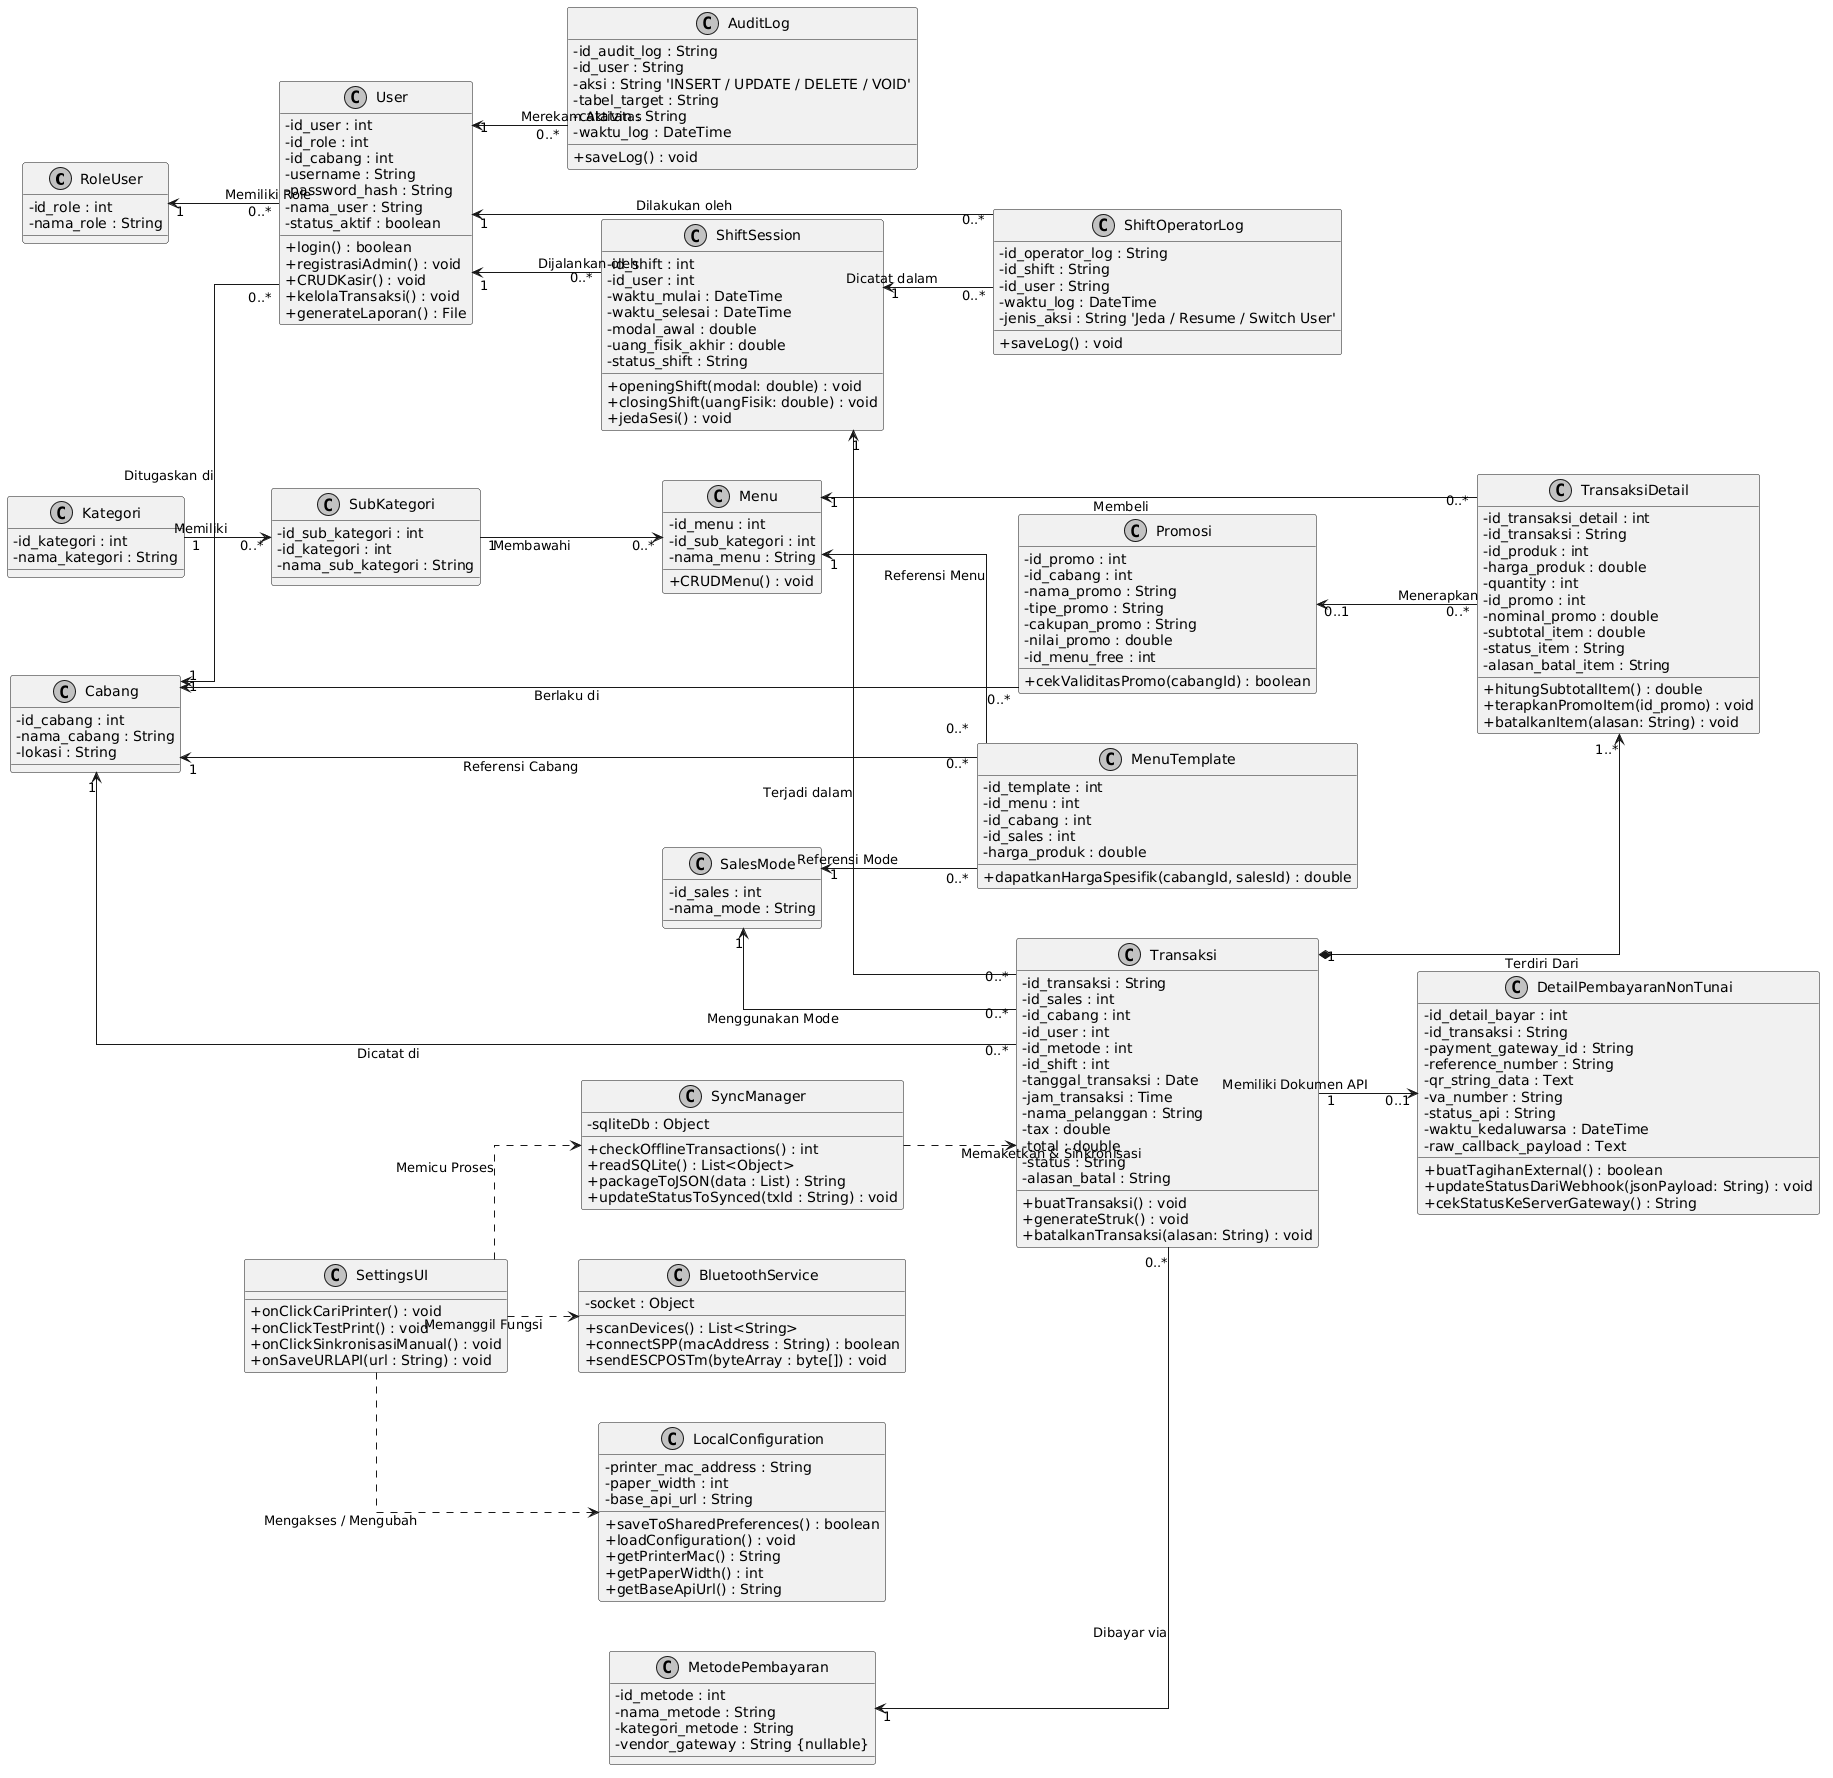
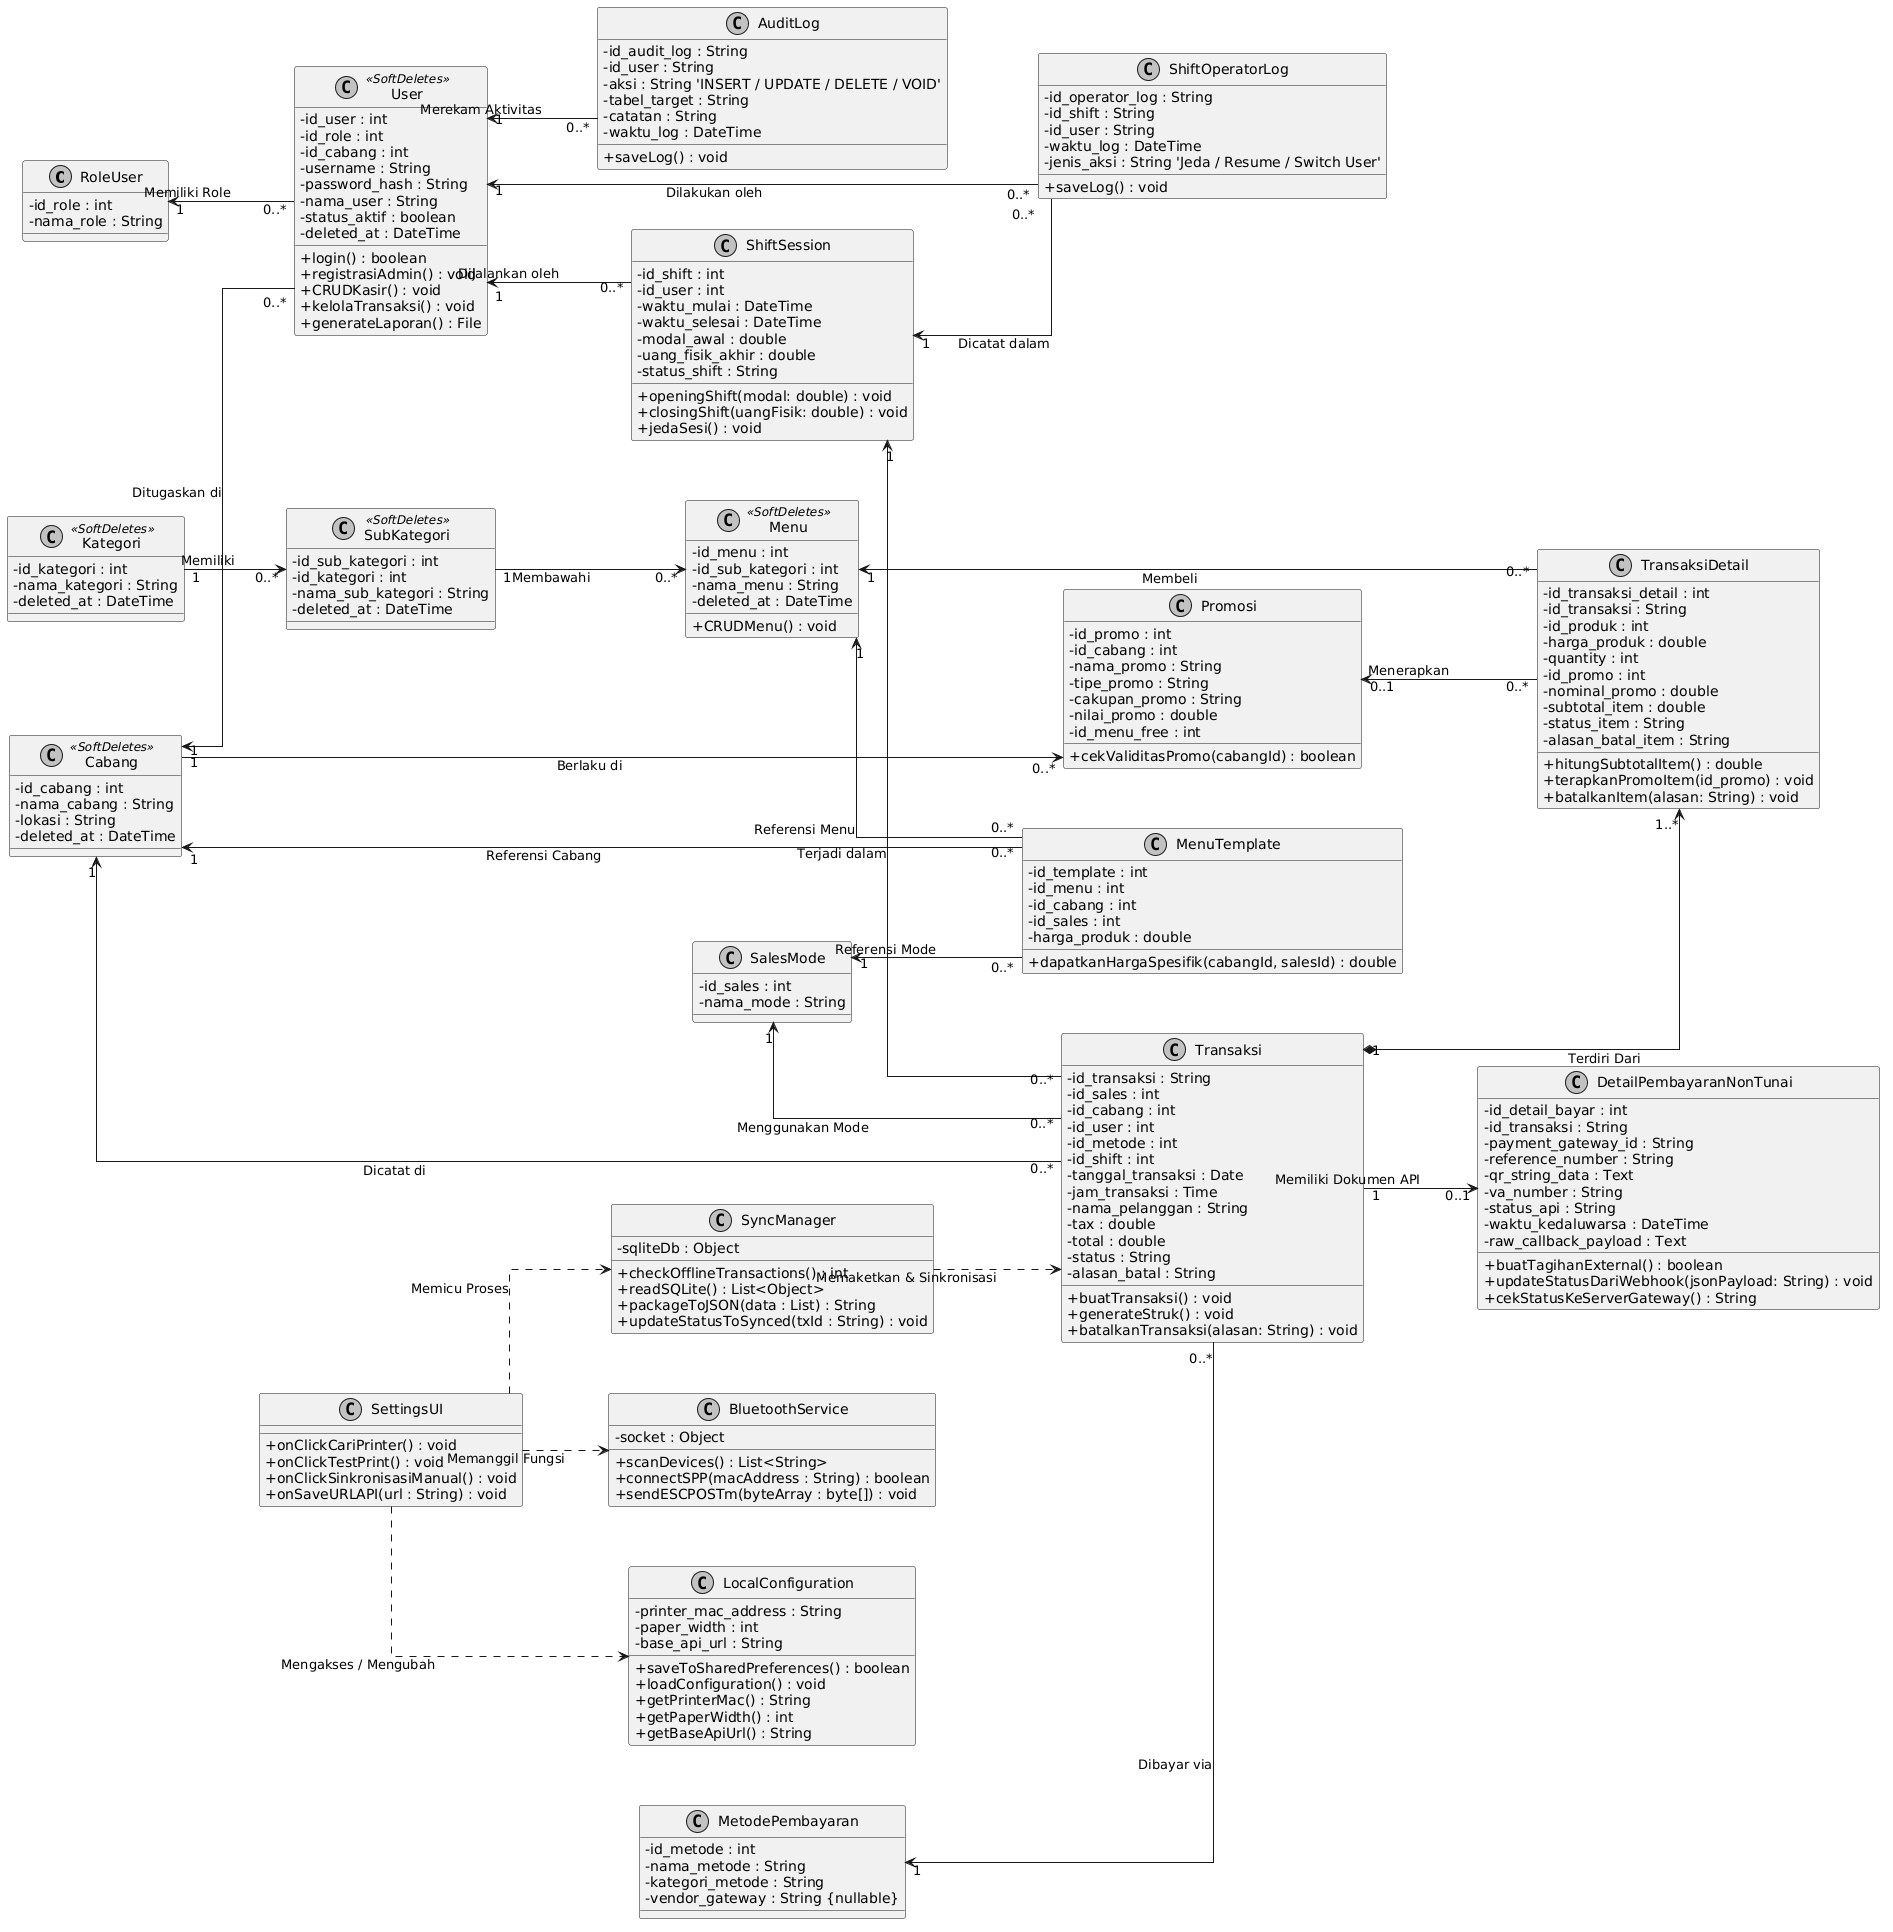
feat(api): -Pengujian API via Postman: verifikasi alur Auth (login/logout/me), CRUD master data, proteksi role 403 Forbidden, validasi 422, dan soft deletes berjalan sukses tanpa error. -Memperbarui UserController agar secara otomatis mengosongkan password_hash (set NULL) untuk akun role Kasir.

diff --git a/pos-event-backend/app/Http/Controllers/Api/V1/UserController.php b/pos-event-backend/app/Http/Controllers/Api/V1/UserController.php
@@ -6,6 +6,7 @@ use App\Http\Controllers\Controller;
 use App\Http\Requests\V1\StoreUserRequest;
 use App\Http\Requests\V1\UpdateUserRequest;
 use App\Http\Resources\UserResource;
+use App\Models\RoleUser;
 use App\Models\UserModel;
 use Illuminate\Http\JsonResponse;
 use Illuminate\Http\Resources\Json\AnonymousResourceCollection;
@@ -51,8 +52,11 @@ class UserController extends Controller
     {
         $validated = $request->validated();
 
-        // Hash password hanya jika dikirim dan tidak null
-        if (! empty($validated['password_hash'])) {
+        // Kasir login cepat (tanpa password): jika role Kasir, paksa password_hash menjadi NULL
+        $role = RoleUser::find($validated['id_role']);
+        if ($role && $role->nama_role === 'Kasir') {
+            $validated['password_hash'] = null;
+        } elseif (! empty($validated['password_hash'])) {
             $validated['password_hash'] = Hash::make($validated['password_hash']);
         }
 
@@ -100,11 +104,15 @@ class UserController extends Controller
     {
         $validated = $request->validated();
 
-        // Perbarui password hanya jika field dikirim dan memiliki nilai baru
-        if (array_key_exists('password_hash', $validated)) {
+        $targetRoleId = $validated['id_role'] ?? $user->id_role;
+        $role = RoleUser::find($targetRoleId);
+
+        if ($role && $role->nama_role === 'Kasir') {
+            $validated['password_hash'] = null;
+        } elseif (array_key_exists('password_hash', $validated)) {
             $validated['password_hash'] = ! empty($validated['password_hash'])
                 ? Hash::make($validated['password_hash'])
-                : null; // Kasir bisa di-reset ke mode login cepat (tanpa password)
+                : null;
         }
 
         $user->update($validated);